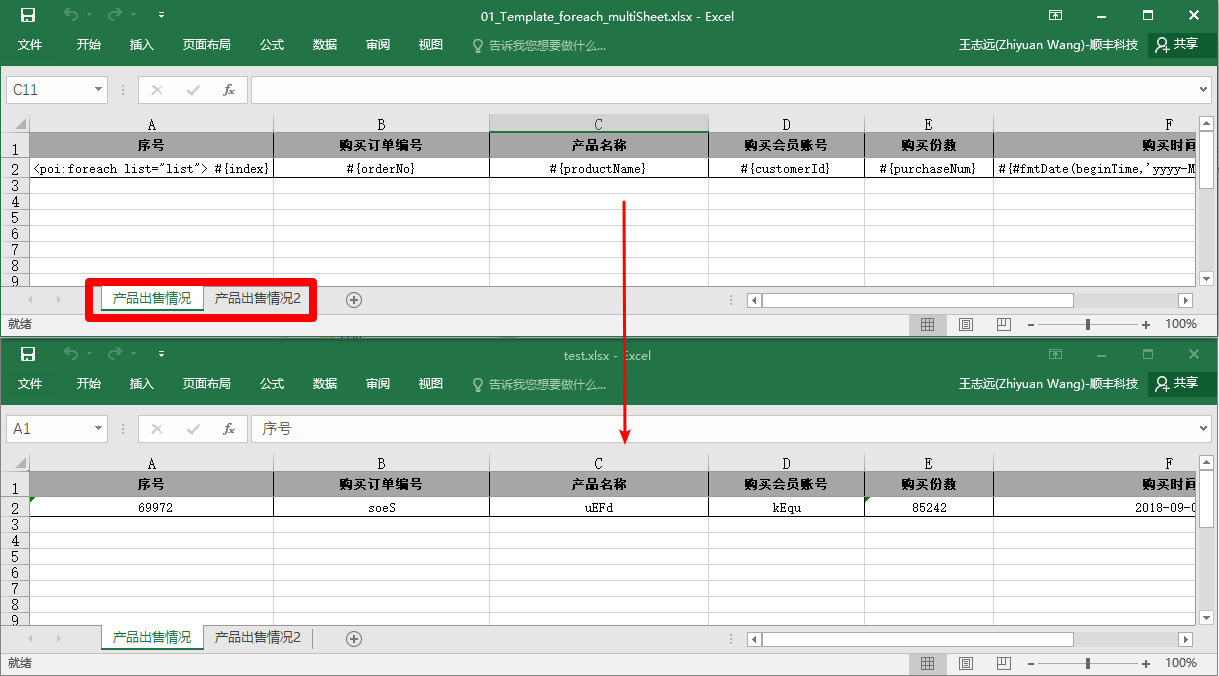
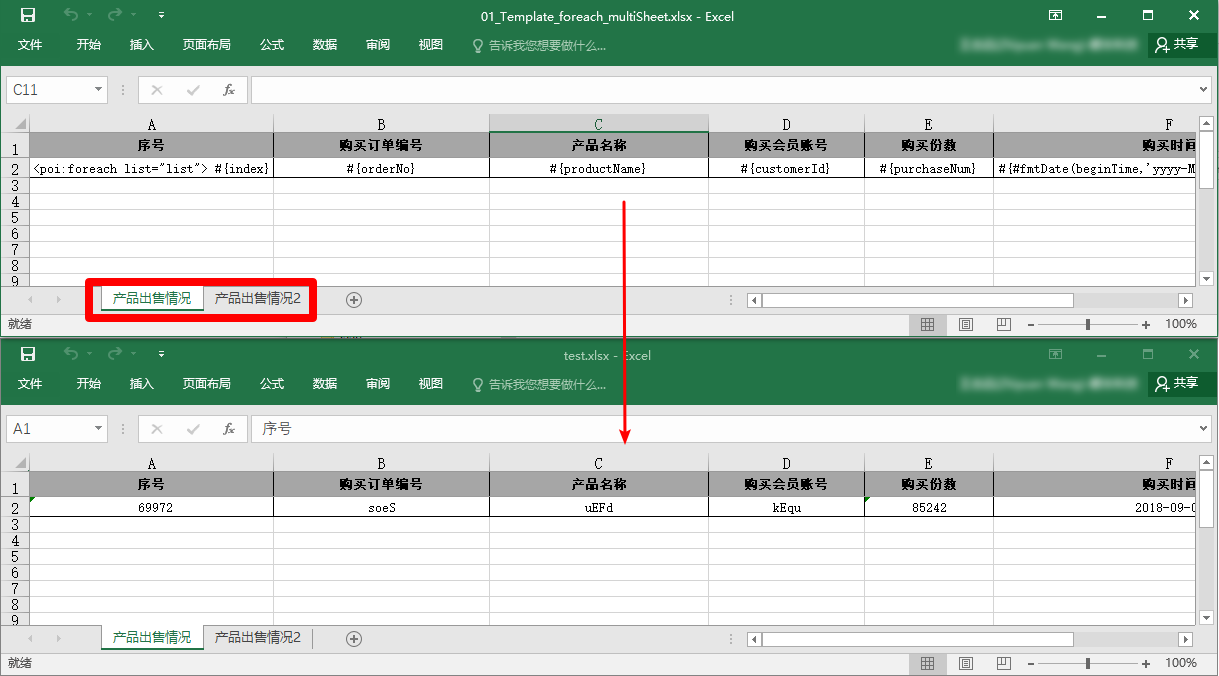
udpate

Changed region(s): [[0.7793, 0.0311, 0.9352, 0.0932], [0.7793, 0.5592, 0.9352, 0.5902]]

diff --git a/src/test/java/com/kvn/poi/complexSpel/SpElTest2.java b/src/test/java/com/kvn/poi/complexSpel/SpElTest2.java
@@ -1,0 +1,89 @@
+package com.kvn.poi.complexSpel;
+
+import com.google.common.collect.Lists;
+import com.google.common.collect.Maps;
+import com.kvn.poi.exp.context.PoiExporterContext;
+import org.springframework.expression.Expression;
+import org.springframework.expression.common.TemplateParserContext;
+import org.springframework.expression.spel.standard.SpelExpressionParser;
+
+import java.util.HashMap;
+import java.util.List;
+import java.util.Map;
+
+/**
+* @author wzy
+* @date 2017年7月4日 下午5:52:23
+*/
+public class SpElTest2 {
+	
+	public static void main(String[] args) throws Exception {
+		Map<String, Object> rootObjectMap = initRootObjectMap();
+		PoiExporterContext peContext = new PoiExporterContext(new SpelExpressionParser(), rootObjectMap);
+		List<?> list = (List<?>) peContext.getRootObjectMap().get("list");
+		for (Object item : list) {
+			Expression nameExp = peContext.getSpelExpParser().parseExpression("#{name}", new TemplateParserContext());
+			Expression remarkExp = peContext.getSpelExpParser().parseExpression("#{remark}", new TemplateParserContext());
+			Expression mathExp = peContext.getSpelExpParser().parseExpression("#{scoreMap['math']}", new TemplateParserContext());
+			String nameContent = nameExp.getValue(PoiExporterContext.EVAL_CONTEXT, item, String.class);
+			String remarkContent = remarkExp.getValue(PoiExporterContext.EVAL_CONTEXT, item, String.class);
+			String mathContent = mathExp.getValue(PoiExporterContext.EVAL_CONTEXT, item, String.class);
+			System.out.println("name = [" + nameContent + "]");
+			System.out.println("remark = [" + remarkContent + "]");
+			System.out.println("math = [" + mathContent + "]");
+		}
+
+
+	}
+
+	private static Map<String,Object> initRootObjectMap() {
+		Map<String, Object> rootObjectMap = Maps.newHashMap();
+		List<Stu> stuList = Lists.newArrayList();
+		for (int i = 0; i < 2; i++) {
+			Stu stu = new Stu();
+			stu.setName("张三" + i);
+			stu.setRemark("备注" + i);
+			Map<String, Integer> scoreMap = Maps.newHashMap();
+			scoreMap.put("math", 95 + i);
+			scoreMap.put("chinese", 80 + i);
+			scoreMap.put("english", 77 + i);
+			stu.setScoreMap(scoreMap);
+			stuList.add(stu);
+		}
+
+		rootObjectMap.put("list", stuList);
+		return rootObjectMap;
+	}
+
+
+	public static class Stu {
+		private String name;
+		private String remark;
+		private Map<String, Integer> scoreMap;
+
+		public String getName() {
+			return name;
+		}
+
+		public void setName(String name) {
+			this.name = name;
+		}
+
+		public String getRemark() {
+			return remark;
+		}
+
+		public void setRemark(String remark) {
+			this.remark = remark;
+		}
+
+		public Map<String, Integer> getScoreMap() {
+			return scoreMap;
+		}
+
+		public void setScoreMap(Map<String, Integer> scoreMap) {
+			this.scoreMap = scoreMap;
+		}
+	}
+
+}

diff --git a/src/test/java/com/kvn/poi/export_test/ComplexRootObjectTest.java b/src/test/java/com/kvn/poi/export_test/ComplexRootObjectTest.java
@@ -1,0 +1,91 @@
+package com.kvn.poi.export_test;
+
+import com.google.common.collect.Lists;
+import com.google.common.collect.Maps;
+import com.kvn.poi.complexSpel.SpElTest2;
+import com.kvn.poi.exp.PoiExporter;
+import com.kvn.poi.exp.context.PoiExporterContext;
+import org.springframework.expression.spel.standard.SpelExpressionParser;
+
+import java.io.FileNotFoundException;
+import java.io.FileOutputStream;
+import java.io.InputStream;
+import java.io.OutputStream;
+import java.util.List;
+import java.util.Map;
+
+/**
+ * Created by wangzhiyuan on 2018/12/11
+ */
+public class ComplexRootObjectTest {
+
+    public static String toggleDisplay(int min, int max, int value){
+        if (value >= min && value <= max) {
+            return String.valueOf(value);
+        }
+        return "";
+    }
+
+
+    public static void main(String[] args) throws FileNotFoundException {
+        Map<String, Object> rootObjectMap = initRootObjectMap();
+        PoiExporterContext peContext = new PoiExporterContext(new SpelExpressionParser(), rootObjectMap);
+        OutputStream des = new FileOutputStream("E:\\rlt\\test.xlsx");
+        InputStream is = ForeachMapTest.class.getClassLoader().getResourceAsStream("template/03_Template_复杂模板2.xlsx");
+        PoiExporter.export2Destination(is, rootObjectMap, des);
+    }
+
+
+
+    private static Map<String,Object> initRootObjectMap() {
+        Map<String, Object> rootObjectMap = Maps.newHashMap();
+        List<SpElTest2.Stu> stuList = Lists.newArrayList();
+        for (int i = 0; i < 2; i++) {
+            SpElTest2.Stu stu = new SpElTest2.Stu();
+            stu.setName("张三" + i);
+            stu.setRemark("备注" + i);
+            Map<String, Integer> scoreMap = Maps.newHashMap();
+            scoreMap.put("math", 95 + i);
+            scoreMap.put("chinese", 80 + i);
+            scoreMap.put("english", 77 + i);
+            stu.setScoreMap(scoreMap);
+            stuList.add(stu);
+        }
+
+        rootObjectMap.put("list", stuList);
+        return rootObjectMap;
+    }
+
+
+    public static class Stu {
+        private String name;
+        private String remark;
+        private Map<String, Integer> scoreMap;
+
+        public String getName() {
+            return name;
+        }
+
+        public void setName(String name) {
+            this.name = name;
+        }
+
+        public String getRemark() {
+            return remark;
+        }
+
+        public void setRemark(String remark) {
+            this.remark = remark;
+        }
+
+        public Map<String, Integer> getScoreMap() {
+            return scoreMap;
+        }
+
+        public void setScoreMap(Map<String, Integer> scoreMap) {
+            this.scoreMap = scoreMap;
+        }
+    }
+
+
+}

diff --git a/README.md b/README.md
@@ -4,6 +4,15 @@ excel导出与导入神器，poi-el。
 * poi-el能很方便的支持导出函数扩展（EL的特性）  
 * poi-el支持方便的excel导入API  
 
+## maven 依赖  
+```xml
+<dependency>
+  <groupId>com.github.kevin-wang001</groupId>
+  <artifactId>poi-el</artifactId>
+  <version>2.0.1</version>
+</dependency>
+```
+
 ## excel模板导出
 使用poi + spEl，支持各种普通模板和复杂模板的导出功能
 ### Quick Start:
